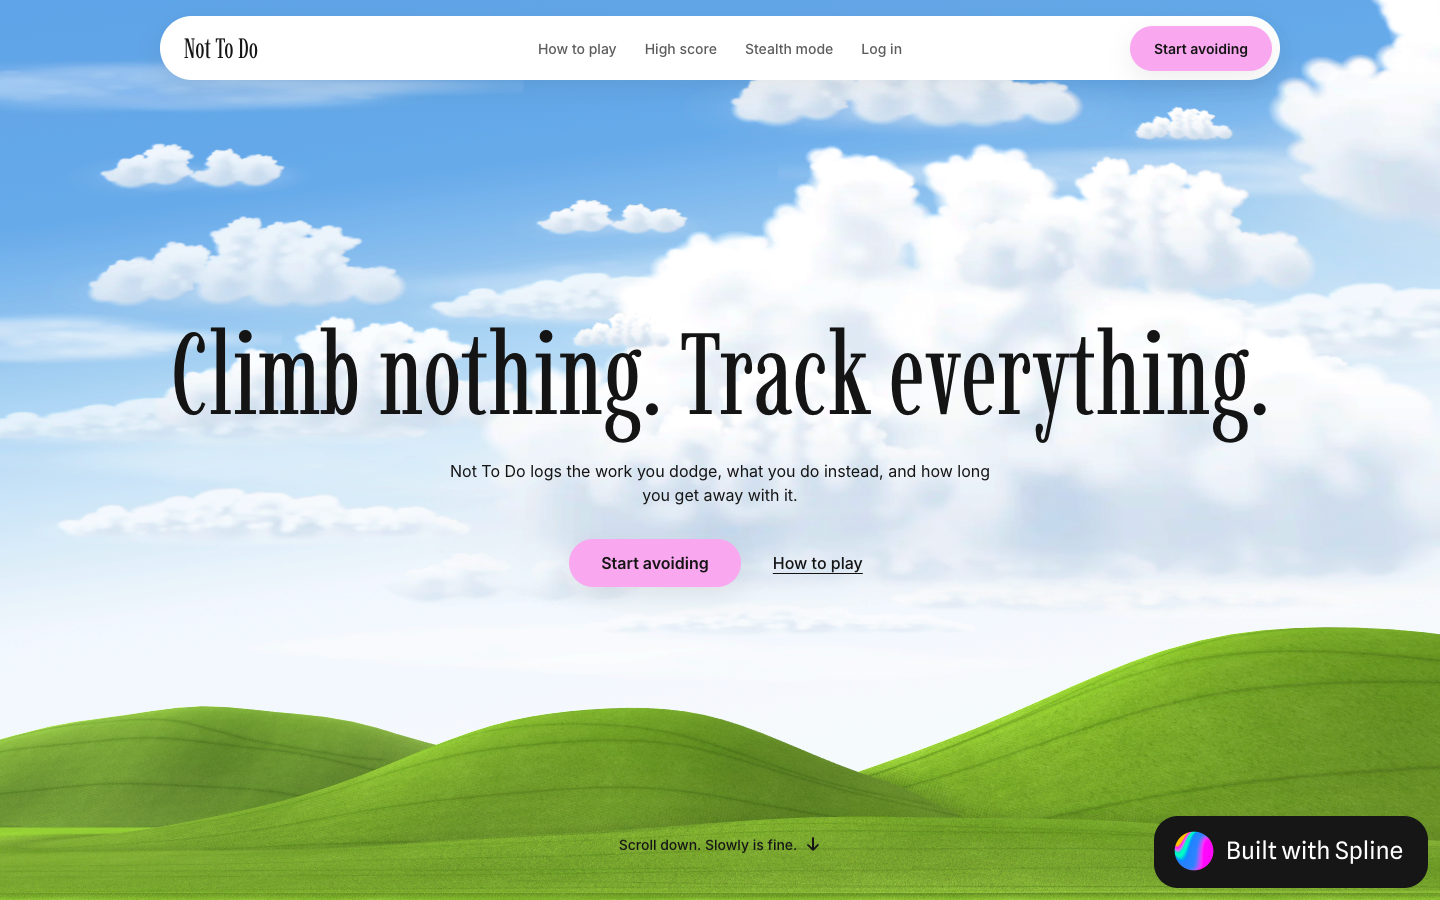
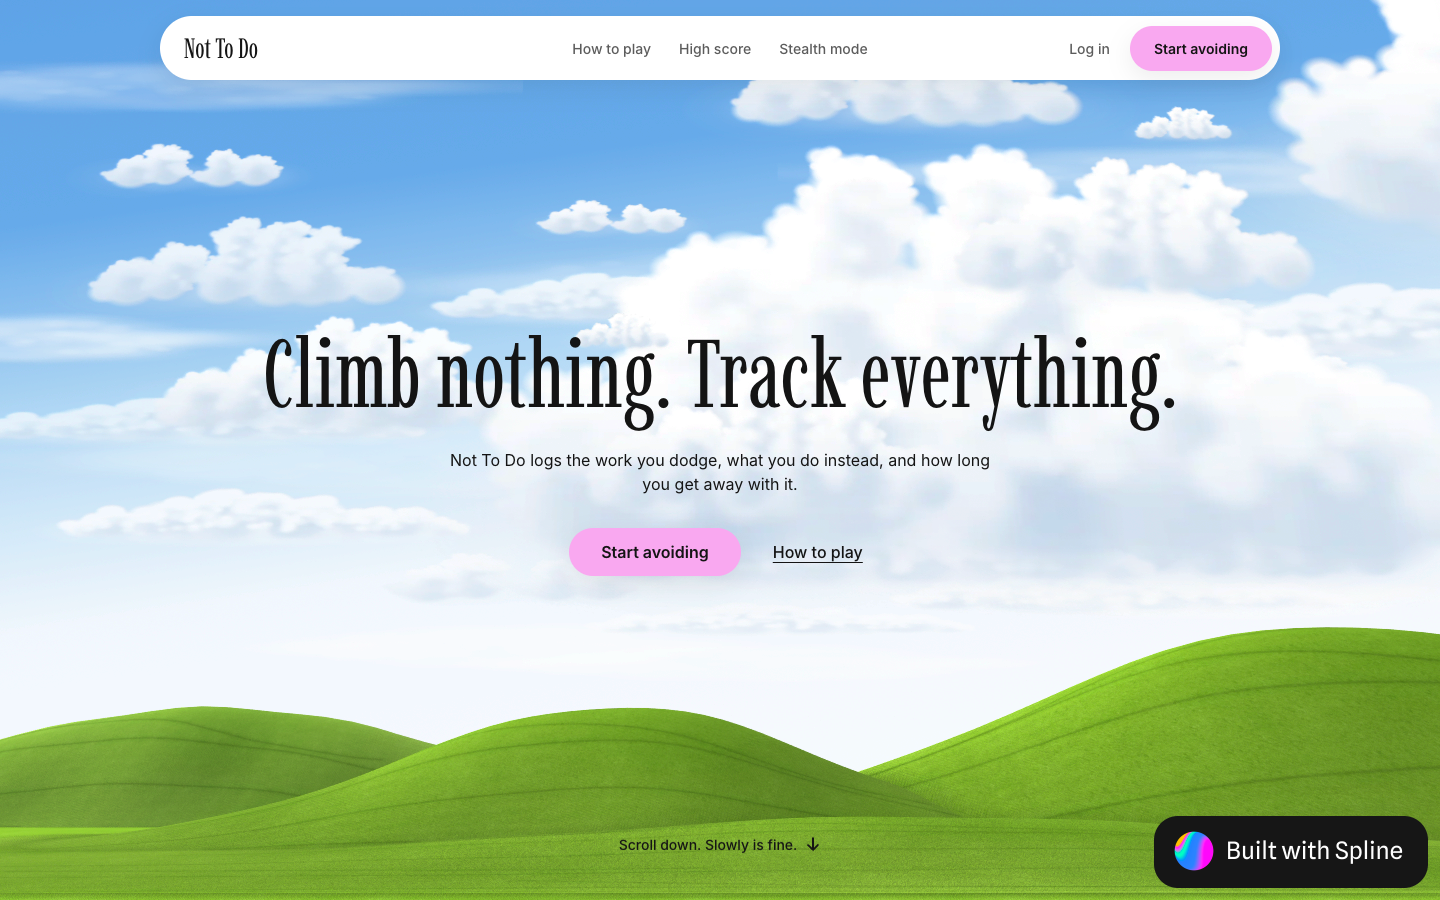
Hero headline: frame as wide as the header, text at the title size (no fill scaling)

Changed region(s): [[0.0938, 0.3422, 0.875, 0.6533], [0.375, 0.0311, 0.625, 0.0622], [0.75, 0.0311, 0.7812, 0.0622]]

diff --git a/src/styles/tokens.css b/src/styles/tokens.css
@@ -22,8 +22,6 @@
   /* Type scale (fluid between phone and desktop) */
   --text-display: clamp(3.5rem, 1rem + 11vw, 12rem);     /* intro parts */
   --text-title-xl: clamp(2.75rem, 1.5rem + 5vw, 6rem);   /* intro line 2, H1, high score */
-  --size-header-width: min(100vw - 2 * var(--space-4), var(--content-max));  /* width of the floating header pill */
-  --text-hero-title: calc(var(--size-header-width) * 0.103);  /* hero H1, tablet and up: fills the header width on one line (Imbue: the line is 9.5 times its font size) */
   --text-title-l: clamp(2rem, 1.2rem + 3vw, 4rem);       /* H2 */
   --text-title-s: clamp(1.25rem, 1rem + 1vw, 1.75rem);   /* intro line 1 */
   --text-body-l: 1.25rem;

diff --git a/src/styles/sections/hero.css b/src/styles/sections/hero.css
@@ -19,10 +19,9 @@
   gap: var(--space-5);
   width: min(100%, var(--content-max)); /* as wide as the header pill */
 }
-/* Headline: as wide as the header. Phones: wraps at the title size. Tablet and up: grows with the screen to fill the header width on one line. */
-@media (min-width: 768px) {
-  .hero__title { font-size: var(--text-hero-title); white-space: nowrap; }
-}
+/* Headline: the frame is as wide as the header and follows the screen width; the text keeps the
+   title size (--text-title-xl) and wraps inside the frame. */
+.hero__title { width: 100%; }
 .hero__sub { max-width: var(--measure-sub); font-size: var(--text-body); text-wrap: pretty; }
 .hero__actions {
   display: flex;

diff --git a/design/decisions.md b/design/decisions.md
@@ -162,3 +162,8 @@
 ## 2026-11-17 · Header: Log in next to Start avoiding
 - Log in moved out of the centered link group and sits right before Start avoiding (8px apart), same muted link style (Oksana). The centered group is now the three section links. Phones: unchanged (Log in stays in the Menu panel). Tab order follows: wordmark, section links (currently off), Log in, Start avoiding.
 - At 768 wide the right group (Log in + Start avoiding) is wider than the left (wordmark), so the section links sit 23px left of the exact center. From about 900 wide up they are exactly centered (720 of 720 at 1440).
+
+## 2026-11-17 · Hero headline: frame width adapts, text size does not scale to fill
+- Undone: the headline no longer grows to fill the header (Oksana: "text size should not be adaptive, only text frame width"). Removed --text-hero-title and --size-header-width.
+- The headline frame is as wide as the header pill at every screen width (measured: identical edges at 1440, 1088, 768, 390). The text uses the title size from the type scale (--text-title-xl, 96px on desktop) and wraps inside the frame when it does not fit (one line from 768 up, two lines on phones).
+- Note: --text-title-xl is itself a fluid token from the start of the project (44px on phones up to 96px at about 1440). A single fixed size would be a type-scale change; not done.
